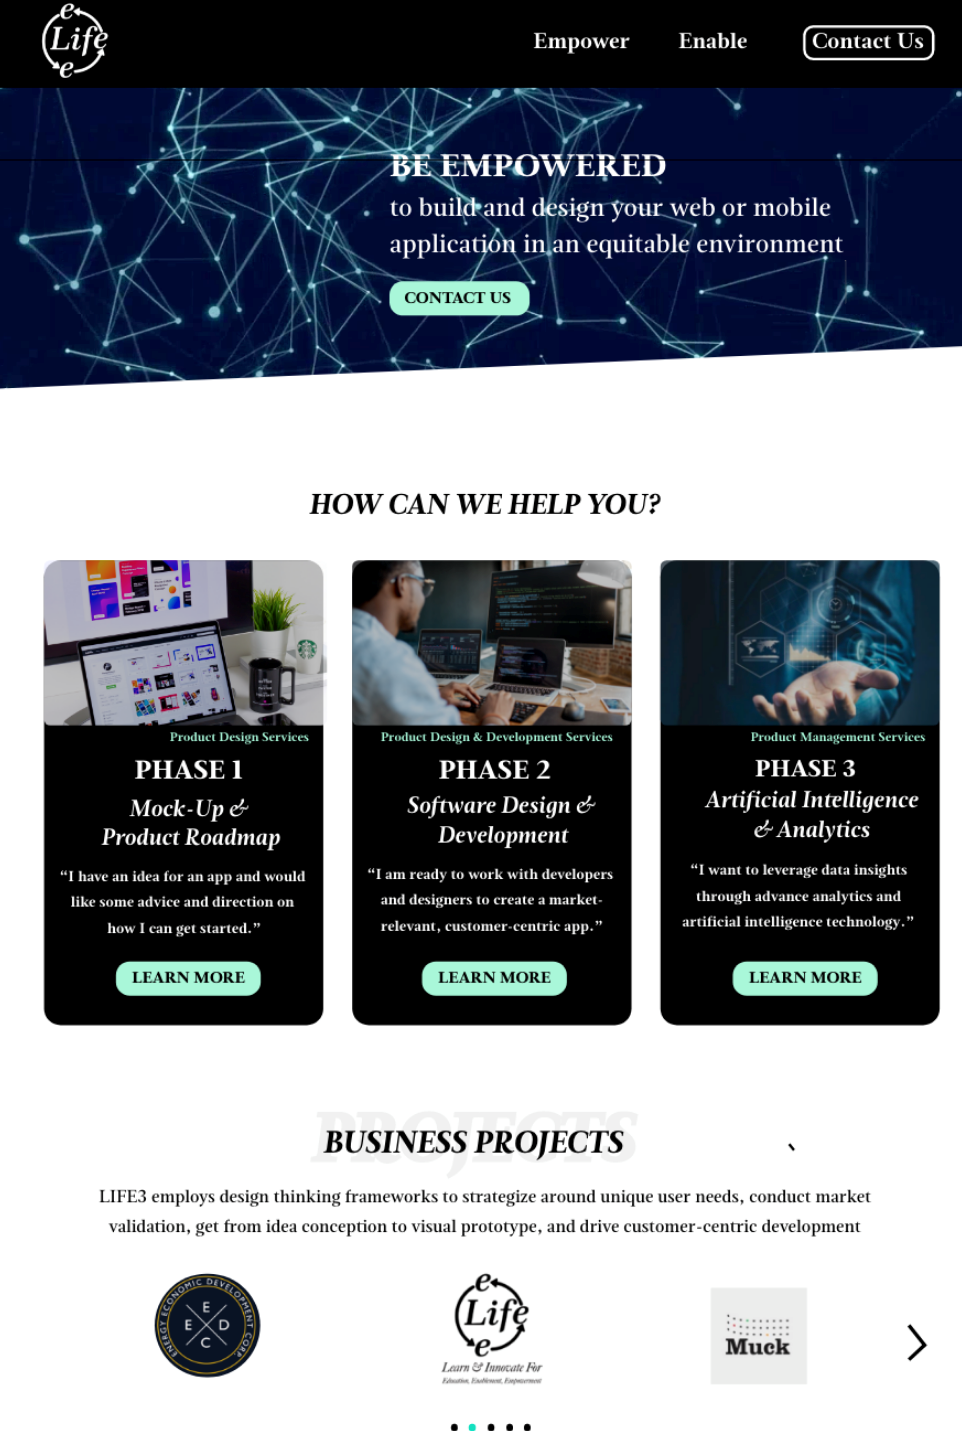
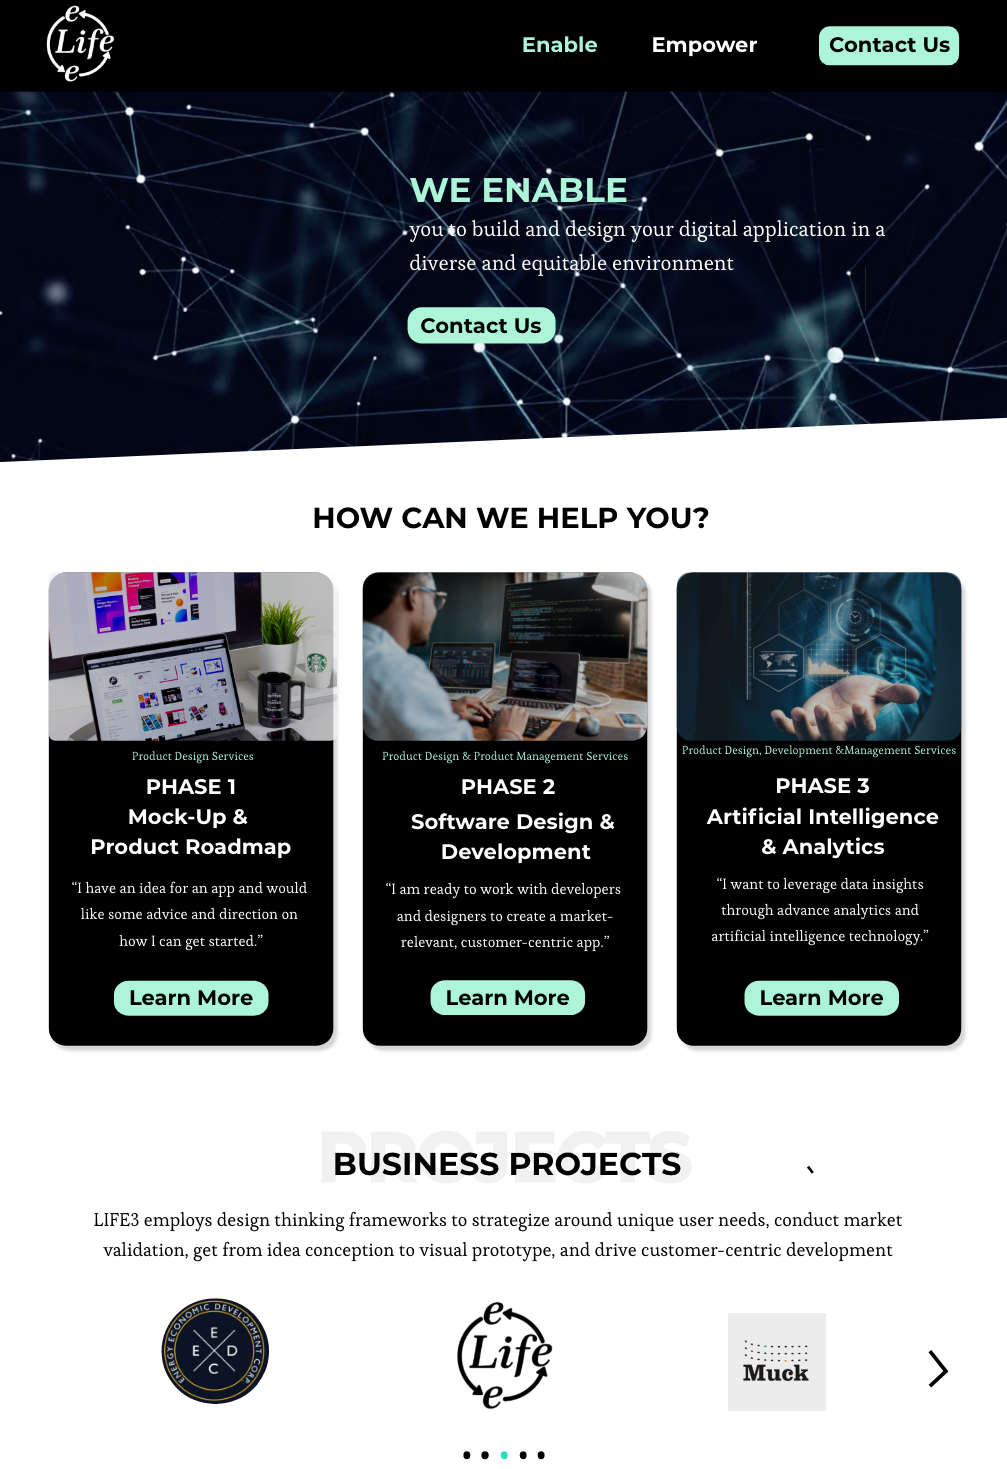
updates based on feedback

diff --git a/src/CSS/styles.css b/src/CSS/styles.css
@@ -1,5 +1,6 @@
 /* How Can We Help You Section Stylings */
-@import url("https://fonts.googleapis.com/css2?family=Esteban&family=Montserrat:wght@100;200;300;400;500;600;700;800;900&display=swap");
+ @import url("https://fonts.googleapis.com/css2?family=Esteban&family=Montserrat:wght@100;200;300;400;500;600;700;800;900&display=swap");  
+/*@import url("https://fonts.googleapis.com/css2?family=Esteban&family=Montserrat:wght@100;200;300;400;500;600;700;800;900&display=swap");*/
 .mainInfo {
   /* width: 100%; */
   position: relative;
@@ -29,9 +30,9 @@
   font-size: 1.3rem;
   font-weight: 700;
 }
-
+/*    made modification here as in feedback "Increase font size of quoted texts until they are all 3 liners."   */
 .mainInfo .example {
-  font-size: 1rem;
+  font-size: 1.1rem;
   font-weight: 300;
   padding: 0 1vw;
 }
@@ -188,11 +189,13 @@
       -ms-flex-align: center;
           align-items: center;
 }
-
+/* made modification here as given feedback " Center the text underneath "Business Projects."
+ and "Add some space between "Business Projects" and text underneath*/ 
 .partners p {
+  text-align: center;
   line-height: 2;
   font-size: 1.3rem;
-  margin: 2vh 0;
+  margin: 5vh 0;
   font-weight: 500;
 }
 
@@ -291,9 +294,12 @@
   color: white;
   /* padding-top: 80px; */
 }
-
+/* made modification based on the feedback "Text underneath "Using Technology 
+to Learn and Progress Together" should have the same amount of line spacing as the text underneath "Business Projects." */
 .about p {
-  font-size: 2rem;
+  line-height: 2;
+  margin: 5vh 0;
+  font-size: 1.2rem;
   padding: 0 10vw;
 }
 
@@ -842,14 +848,17 @@ header .navBar .navLinkText:hover {
 header .navBar .navLogo {
   height: 95%;
   width: auto;
-  left: 1%;
+  left: 5%;
   border-radius: 50%;
 }
-
+/* made modification based on feedback "Move LIFE3's logo further to the left, and lower it by a hair so it’s not touching the toolbar." */ 
 header .navBar .navLogo img {
   width: auto;
   height: 100%;
-  margin-right: -5%;
+  position: absolute;
+  left: 2%;
+  top:5%;
+  /*margin-right: -10%; */
   -webkit-transition: opacity 0.5s;
   transition: opacity 0.5s;
 }
@@ -1265,6 +1274,13 @@ footer .socialMediaContainer .socialMediaIcon:hover {
   font-family: "Esteban", serif;
 }
 
+.profileInformation .roleDescription {
+  font-weight: 500;
+  font-size: 5rem;
+  font-family: "Esteban", serif;
+}
+
+
 .lightBox .exitIcon {
   top: 5vh;
   right: 5vw;
@@ -1393,6 +1409,7 @@ footer .socialMediaContainer .socialMediaIcon:hover {
 
 .lightBox .teamMemberLightBox ul {
   margin-left: 1.5vw;
+  
 }
 
 .lightBox .teamMemberLightBox .iconBar {

diff --git a/src/Pages/home.js b/src/Pages/home.js
@@ -148,10 +148,14 @@ export default class Home extends Component {
               <p className="describle">Product Design Services</p>
               <div className="phase">
                 <h2>phase 1</h2>
-                <p>
+
+                {/* Made modification here for feedback "Make the titles "Mock-up & Product Roadmap", 
+                "Software Design & Development", and "Artificial Intelligence & Analytics" the same 
+                font size as PHASE 1, PHASE 2, PHASE 3." initially <p> was used.     */}
+                <h2>
                   Mock-up &amp; <br />
                   Product Roadmap
-                </p>
+                </h2>
               </div>
               <h2 className="example">
                 "I have an idea for an app and would like some advice and
@@ -176,10 +180,10 @@ export default class Home extends Component {
               </p>
               <div className="phase">
                 <h2>phase 2</h2>
-                <p>
+                <h2>
                   Software Design &amp; <br />
                   Development
-                </p>
+                </h2>
               </div>
               <h2 className="example">
                 "I am ready to work with developers and designers to create a
@@ -202,10 +206,10 @@ export default class Home extends Component {
               <p className="describle">Product Management Services</p>
               <div className="phase">
                 <h2>phase 3</h2>
-                <p>
+                <h2>
                   Artificial Intelligence
                   <br /> &amp; Analytics
-                </p>
+                </h2>
               </div>
               <h2 className="example">
                 "I want to leverage data insights through advance analytics and

diff --git a/src/CSS/styles.scss b/src/CSS/styles.scss
@@ -5,6 +5,7 @@
 @import "./form";
 @import url("https://fonts.googleapis.com/css2?family=Esteban&family=Montserrat:wght@100;200;300;400;500;600;700;800;900&display=swap");
 
+/*@import url("https://fonts.googleapis.com/css2?family=Montserrat:wght@100;200;300;400;500;600;700;800;900&display=swap"); */
 /* Global Stylings */
 
 * {
@@ -85,9 +86,10 @@ header {
   overflow: hidden;
   position: relative;
   .hoveredBar {
-    box-shadow: 0px 0px 5px 5px black;
+    box-shadow: 0px 0px 0px 0px black;
     background-color: black !important ;
-    transition: box-shadow 1s, background-color 1s;
+    transition: box-shadow 0s, background-color 0s;
+  
   }
   .navBar {
     z-index: 10;
@@ -99,11 +101,14 @@ header {
     padding: 0 5vw;
     background-color: transparent;
     display: flex;
+    /*
     justify-content: space-between;
+    */
+    justify-content: flex-end;
     color: white;
     align-items: center;
     font-size: 1.5rem;
-
+    box-shadow: 0px 0px 0px 0px black;
     margin-left: auto;
     .linksContainer {
       display: flex;
@@ -141,9 +146,10 @@ header {
 
       // box-shadow: 0px 0px 5px 5px black;
       img {
+        position: absolute;
         width: auto;
         height: 100%;
-        margin-right: -5%;
+        margin-right:5%;
         transition: opacity 0.5s;
         &:hover {
           opacity: 0.5;
@@ -447,7 +453,7 @@ footer .socialMediaContainer .socialMediaIcon:hover {
 
 .lightBox .teamName {
   font-weight: 700;
-  font-size: 1.3rem;
+  font-size: 1.5rem;
   font-family: $primaryFont;
 }
 
@@ -558,6 +564,7 @@ footer .socialMediaContainer .socialMediaIcon:hover {
 
 .lightBox .teamMemberLightBox ul {
   margin-left: 1.5vw;
+  
 }
 
 .lightBox .teamMemberLightBox .iconBar {

diff --git a/src/Components/Navbar.js b/src/Components/Navbar.js
@@ -40,8 +40,9 @@ export default class Header extends Component {
     });
 
     window.addEventListener("scroll", () => {
-      
-      window.scrollY >= 100
+      /* modified as mentioned in the feedback " Make black menu bar opaque and have it 
+      automatically appear as soon as the user scrolls down. Remove blurriness." */
+      window.scrollY >= 1
         ? document.getElementById("navBar").classList.add("hoveredBar")
         : document.getElementById("navBar").classList.remove("hoveredBar");
     });
@@ -59,7 +60,7 @@ export default class Header extends Component {
     return (
       <nav className="navBar" id="navBar">
         <Link className="navLink navLogo" to="/">
-          <img src={Logo} alt="LIFE3 Logo" title="LIFE3" />
+          <img src={Logo} alt="LIFE3 Logo" title="LIFE3"/>
         </Link>
         {!this.state.mobileView ? (
           <div className="linksContainer">

diff --git a/public/index.html b/public/index.html
@@ -5,9 +5,9 @@
   <meta charset="UTF-8">
   <meta name="viewport" content="width=device-width, initial-scale=1.0">
   <title>LIFE3 - Learn & Innovate For Education, Enablement, Empowerment</title>
-  <link rel="apple-touch-icon" sizes="180x180" href="/apple-touch-icon.png">
-  <link rel="icon" type="image/png" sizes="32x32" href="/favicon-32x32.png">
-  <link rel="icon" type="image/png" sizes="16x16" href="/favicon-16x16.png">
+  <link rel="apple-touch-icon" sizes="180x180" href="../public/favicon180.png">
+  <link rel="icon" type="image/png" sizes="32x32" href="../public/favicon32.png">
+  <link rel="icon" type="image/png" sizes="16x16" href="../public/favicon16.png">
   <link rel="manifest" href="/site.webmanifest">
 </head>
 
